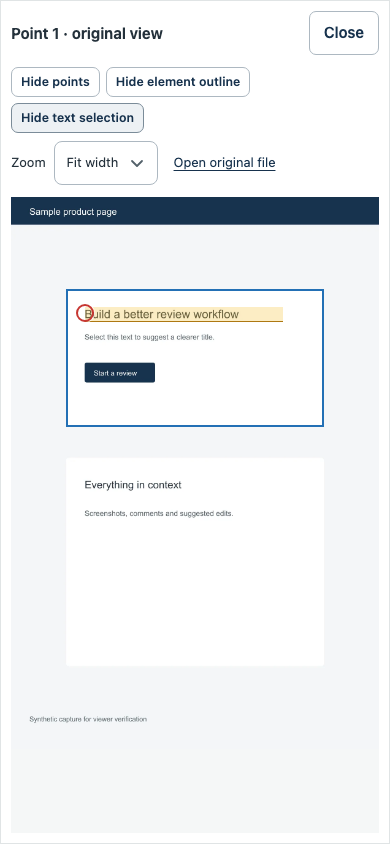
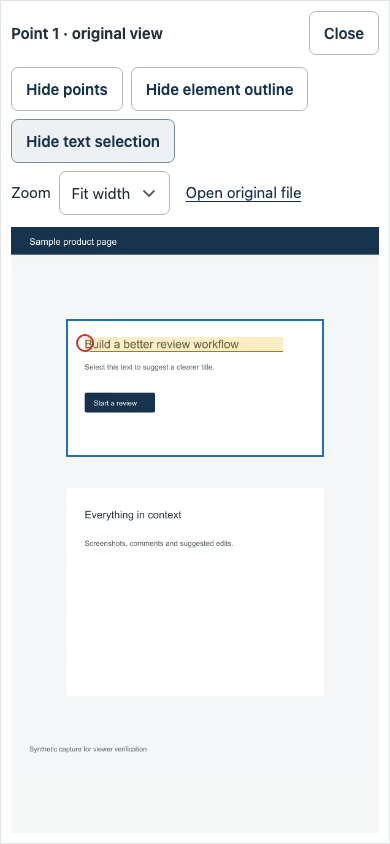
Keep screenshot review controls consistently sized

diff --git a/src/web/threads/detail/evidence.css b/src/web/threads/detail/evidence.css
@@ -291,7 +291,7 @@
   display: flex;
   align-items: center;
   flex-wrap: wrap;
-  gap: 4px 10px;
+  gap: 8px;
   padding-right: 8px;
 }
 .review-image-caption > a {
@@ -300,10 +300,20 @@
 .review-image-caption > button:last-child {
   margin-left: auto;
 }
-.review-pin-toggle {
-  min-height: 30px;
-  padding: 3px 9px;
-  font-size: 0.82rem;
+.review-image-caption button,
+.evidence-image-dialog button,
+.evidence-image-controls select {
+  min-height: 44px;
+  font-size: 1rem;
+  line-height: 1.4;
+  border-radius: 7px;
+}
+.review-image-caption button,
+.evidence-image-dialog button {
+  padding: 8px 14px;
+}
+.evidence-image-controls select {
+  padding: 8px 38px 8px 12px;
 }
 .review-legacy-pins {
   font-size: 0.78rem;
@@ -584,7 +594,7 @@
 .review-layer-controls {
   display: inline-flex;
   flex-wrap: wrap;
-  gap: 6px;
+  gap: 8px;
 }
 .review-image-overlay {
   position: absolute;
@@ -667,7 +677,12 @@ button.review-image-open:enabled:hover {
 }
 .evidence-image-controls {
   justify-content: flex-start;
-  font-size: 0.86rem;
+  font-size: 1rem;
+}
+.evidence-image-controls > a {
+  display: inline-flex;
+  align-items: center;
+  min-height: 44px;
 }
 .evidence-image-controls label {
   display: inline-flex;
